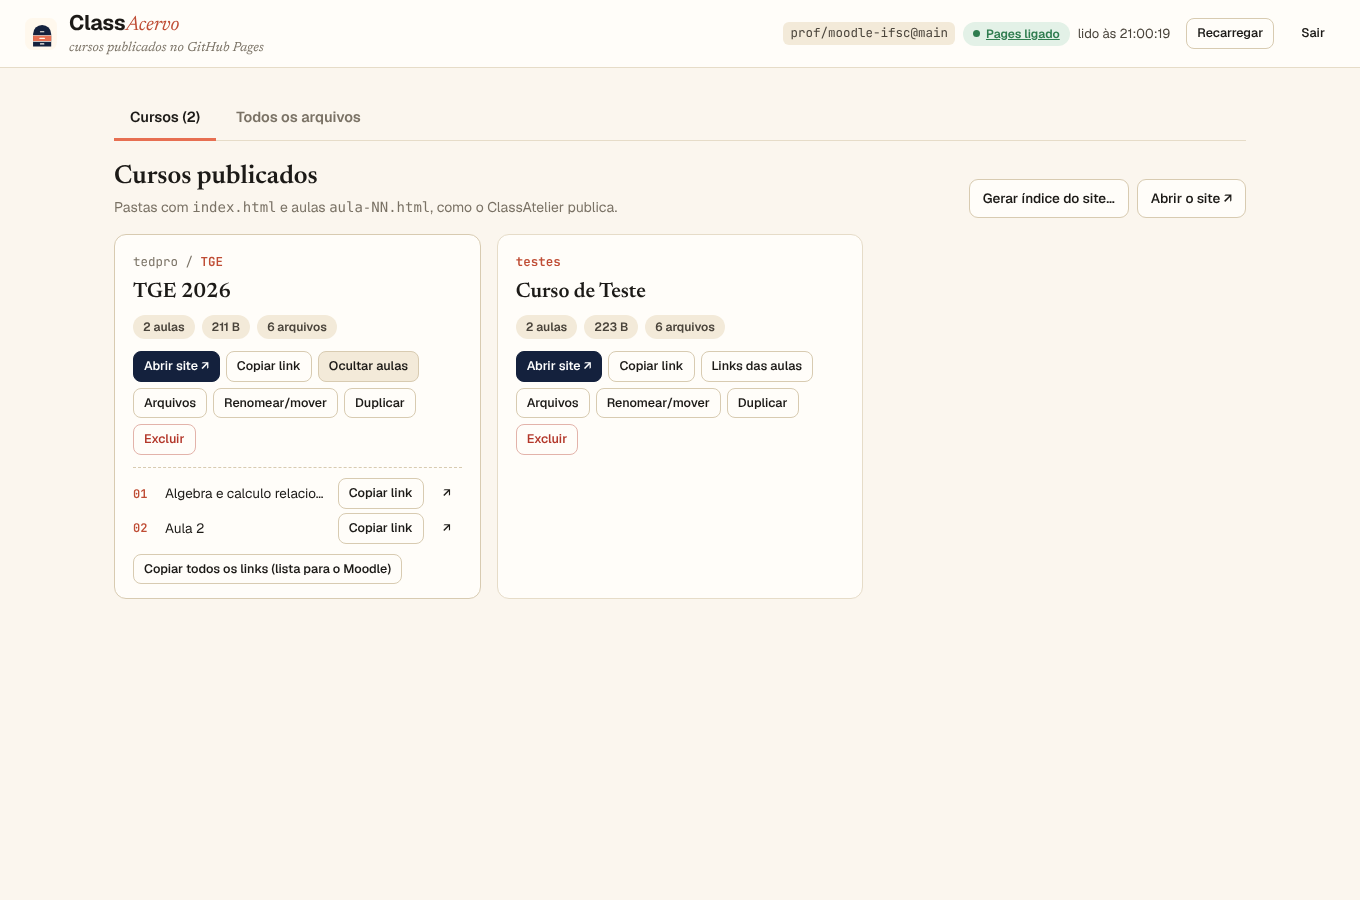
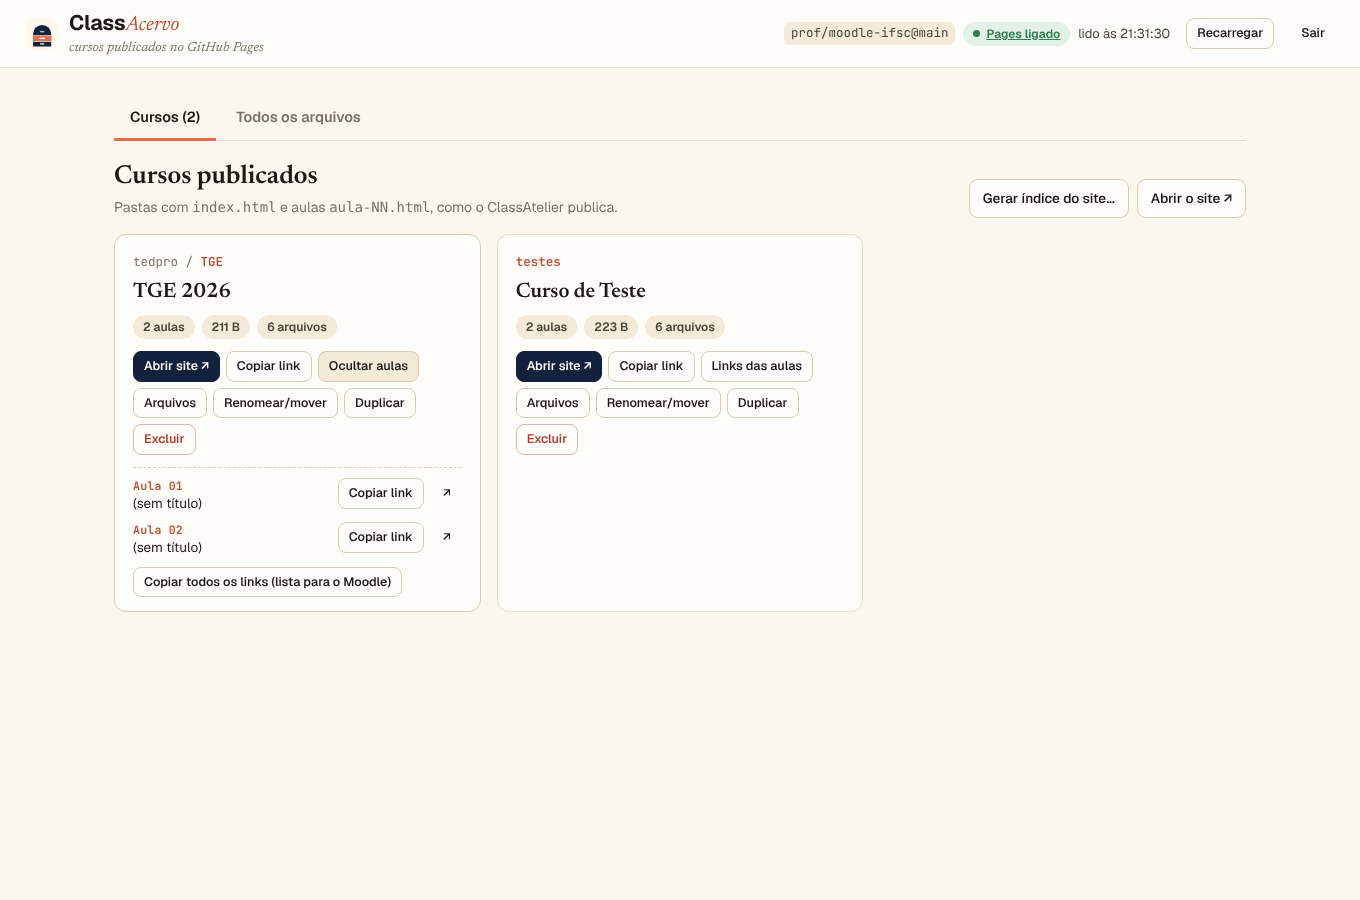
ClassAcervo: reconhece aulas com qualquer nome e mantém o índice do curso em dia
- curso = pasta com index.html e outros .html (não só aula-NN.html)
- aviso de links quebrados no índice + botão 'Consertar links do índice'
- renomear um arquivo de aula atualiza o link no index.html (opção marcada por padrão)

Claude-Session: https://claude.ai/code/session_019hsNeLWW9aShWMiNsGKSuX

Changed region(s): [[0.0926, 0.5289, 0.3088, 0.6844], [0.7412, 0.0311, 0.8647, 0.0622], [0.5868, 0.0311, 0.6794, 0.0622]]

diff --git a/acervo/acervo.js b/acervo/acervo.js
@@ -81,25 +81,50 @@ async function detectCourses() {
   const found = [];
   for (const dir of S.dirs) {
     if (!S.files.has(dir + "/index.html")) continue;
-    const lessonFiles = [...S.files.keys()].filter((p) => dirname(p) === dir && /^aula-\d+\.html$/i.test(basename(p))).sort();
-    if (!lessonFiles.length) continue;
-        const lessons = lessonFiles.map((p) => { const n = Number(/(\d+)/.exec(basename(p))[1]); return { n, file: p, title: "", week: 0 }; });
+    // Aulas = os outros .html da pasta (o nome pode ser qualquer um: aula-01.html, semana-03-….html…)
+    const htmls = [...S.files.keys()].filter((p) => dirname(p) === dir && /\.html?$/i.test(p) && basename(p).toLowerCase() !== "index.html");
+    if (!htmls.length) continue;
     let size = 0, count = 0;
     for (const [p, f] of S.files) if (p.startsWith(dir + "/")) { size += f.size; count += 1; }
-    found.push({ path: dir, title: "", lessons, size, files: count });
+    found.push({ path: dir, title: "", lessons: [], files: count, size, htmls, broken: [], unlisted: [] });
   }
   found.sort((a, b) => a.path.localeCompare(b.path, "pt-BR"));
   S.courses = found;
   await Promise.all(found.map(async (c) => {
     const info = await courseInfo(c.path);
     c.title = info.title;
+    c.indexSha = info.sha;
     const weeks = weeksFromProjects(c.path); // [{week, slug}]
-    for (const l of c.lessons) {
-      l.title = info.labels.get(l.n) || "";
+    const used = new Set(); const lessons = []; c.broken = [];
+    const nameSlug = (f) => slugify(basename(f).replace(/\.html?$/i, "").replace(/^(aula|semana)[-_ ]?0*\d+[-_ ]?/i, ""));
+    // 1) na ordem do índice: o arquivo existe? se não, procura o que tem o mesmo título no nome
+    for (const e of info.entries) {
+      let file = c.path + "/" + e.href;
+      let fixable = false;
+      if (!S.files.has(file) || used.has(file)) {
+        file = "";
+        const sl = slugify(e.label);
+        if (sl) file = c.htmls.find((f) => !used.has(f) && !info.entries.some((x) => c.path + "/" + x.href === f) && (nameSlug(f).includes(sl) || (nameSlug(f) && sl.includes(nameSlug(f))))) || "";
+        c.broken.push({ href: e.href, label: e.label, target: file ? basename(file) : "" });
+        fixable = !!file;
+      }
+      if (file) { used.add(file); lessons.push({ file, title: e.label, fromIndex: !fixable }); }
+    }
+    // 2) arquivos que o índice não cita
+    for (const f of c.htmls.slice().sort((a, b) => a.localeCompare(b, "pt-BR", { numeric: true }))) {
+      if (used.has(f)) continue;
+      used.add(f); c.unlisted.push(basename(f));
+      const pretty = basename(f).replace(/\.html?$/i, "").replace(/^(aula|semana)[-_ ]?0*\d+[-_ ]?/i, "").replace(/[-_]+/g, " ").trim();
+      lessons.push({ file: f, title: pretty ? pretty.charAt(0).toUpperCase() + pretty.slice(1) : "", unlisted: true });
+    }
+    lessons.forEach((l, k) => {
+      l.n = k + 1;
+      const fm = /semana[-_ ]?0*(\d+)/i.exec(basename(l.file));
       const sl = slugify(l.title);
       const w = sl && weeks.find((x) => x.slug && (sl.startsWith(x.slug) || x.slug.startsWith(sl)));
-      l.week = w ? w.week : 0;
-    }
+      l.week = fm ? Number(fm[1]) : (w ? w.week : 0);
+    });
+    c.lessons = lessons;
   }));
 }
 const slugify = (t) => String(t || "").normalize("NFD").replace(/[\u0300-\u036f]/g, "").toLowerCase().replace(/[^a-z0-9]+/g, "-").replace(/^-+|-+$/g, "");
@@ -119,20 +144,24 @@ const htmlText = (raw) => String(raw || "").replace(/<[^>]+>/g, "").replace(/&am
 // O index.html do curso é a fonte do que o site mostra: título do curso e o título de cada aula.
 async function courseInfo(dir) {
   const f = S.files.get(dir + "/index.html");
-  const info = { title: basename(dir), labels: new Map() };
+  const info = { title: basename(dir), entries: [], html: "", sha: f ? f.sha : "" };
   if (!f) return info;
   if (S.titles.has(f.sha)) return S.titles.get(f.sha);
   try {
     const blob = await api(`${repoPath()}/git/blobs/${f.sha}`);
-    const html = b64text(blob.content);
+    const html = b64text(blob.content); info.html = html;
     const h1 = /<h1[^>]*>([\s\S]*?)<\/h1>/i.exec(html); const tt = /<title[^>]*>([\s\S]*?)<\/title>/i.exec(html);
     const clean = htmlText((h1 && h1[1]) || (tt && tt[1]));
     if (clean) info.title = clean;
-    const re = /<a[^>]*href="(?:\.\/)?aula-(\d+)\.html"[^>]*>([\s\S]*?)<\/a>/gi; let m;
+    const re = /<a[^>]*href="([^"#?]+\.html?)"[^>]*>([\s\S]*?)<\/a>/gi; let m;
     while ((m = re.exec(html))) {
+      let href = m[1]; if (/^[a-z]+:|^\//i.test(href) || href.startsWith("../")) continue;
+      href = href.replace(/^\.\//, ""); if (href.includes("/")) continue;
+      try { href = decodeURIComponent(href); } catch (e) { /* mantém */ }
       const st = /<strong[^>]*>([\s\S]*?)<\/strong>/i.exec(m[2]);
-      const label = htmlText(st ? st[1] : m[2].replace(/<span[^>]*>[\s\S]*?<\/span>/gi, ""));
-      if (!isGenericLabel(label)) info.labels.set(Number(m[1]), label);
+      let label = htmlText(st ? st[1] : m[2].replace(/<span[^>]*>[\s\S]*?<\/span>/gi, ""));
+      if (isGenericLabel(label)) label = "";
+      if (href.toLowerCase() !== "index.html") info.entries.push({ href, label });
     }
   } catch (e) { /* mantém o nome da pasta */ }
   S.titles.set(f.sha, info);
@@ -282,7 +311,8 @@ function courseCard(c) {
   const lessons = open ? `<div class="lessons"><ol>${c.lessons.map((l) => `<li><span class="t"><span class="n">${l.week ? "Semana " + l.week : "Aula " + pad2(l.n)}</span>${esc(l.title || "(sem título)")}</span><button class="btn small" data-act="copy-link" data-path="${esc(l.file)}">Copiar link</button><a class="btn small ghost" href="${esc(siteUrl(l.file))}" target="_blank" rel="noopener" aria-label="Abrir ${esc(lessonLabel(l))}">↗</a></li>`).join("")}</ol>
     <p style="margin:10px 0 0"><button class="btn small" data-act="copy-all-links" data-path="${esc(c.path)}">Copiar todos os links (lista para o Moodle)</button></p></div>` : "";
   return `<article class="course"><div class="crumbs">${crumbs}</div><h3>${esc(c.title)}</h3>
-    <div class="meta"><span class="chip">${c.lessons.length} aula${c.lessons.length === 1 ? "" : "s"}</span><span class="chip">${sizeOf(c.size)}</span><span class="chip">${c.files} arquivos</span></div>
+    <div class="meta"><span class="chip">${c.lessons.length} aula${c.lessons.length === 1 ? "" : "s"}</span><span class="chip">${sizeOf(c.size)}</span><span class="chip">${c.files} arquivos</span>${c.broken.length ? `<span class="chip bad" title="O índice do curso aponta para arquivos que não existem mais">${c.broken.length} link${c.broken.length === 1 ? "" : "s"} quebrado${c.broken.length === 1 ? "" : "s"} no índice</span>` : ""}</div>
+    ${c.broken.length ? `<p class="note">O <code>index.html</code> do curso ainda aponta para nomes antigos de aula.${c.broken.some((b) => b.target) ? ` <button class="btn small" data-act="fix-index" data-path="${esc(c.path)}">Consertar links do índice</button>` : " Não achei os arquivos novos correspondentes; confira em «Arquivos»."}</p>` : ""}
     <div class="course-actions">
       <a class="btn small primary" href="${esc(siteUrl(c.path, true))}" target="_blank" rel="noopener">Abrir site ↗</a>
       <button class="btn small" data-act="copy-link" data-path="${esc(c.path)}" data-dir="1">Copiar link</button>
@@ -400,22 +430,58 @@ async function afterChange(message, commit) {
 function actMove(path, duplicate) {
   const isDir = isDirPath(path);
   const verb = duplicate ? "Duplicar" : "Renomear ou mover";
+  const lessonIdx = !duplicate && !isDir && /\.html?$/i.test(path) && basename(path).toLowerCase() !== "index.html" && S.files.has(dirname(path) + "/index.html") && S.courses.some((c) => c.path === dirname(path)) ? dirname(path) + "/index.html" : "";
   dialog({
     title: `${verb} «${basename(path)}»`,
     body: `<p>${duplicate ? "Cria uma cópia completa, por exemplo para o próximo semestre." : "Os arquivos mudam de caminho em um único commit, sem perder nada."} Informe o <b>caminho novo</b> dentro do repositório.</p>
       <label class="field"><span>Novo caminho</span><input type="text" id="dest" value="${esc(path)}" spellcheck="false"></label>
       ${duplicate ? "" : `<p class="note">Os links do site mudam junto. Links já colados no Moodle para <code>${esc(path)}</code> deixam de funcionar até você trocá-los.</p>`}
+      ${lessonIdx ? `<label class="check"><input type="checkbox" id="fix-idx" checked><span>Atualizar também o link desta aula no <code>index.html</code> do curso (recomendado).</span></label>` : ""}
       <div id="dest-err"></div>`,
     actions: [{ label: "Cancelar", onClick: closeDialog }, { label: verb, kind: "primary", onClick: async () => {
       if (!canWrite()) return;
       const v = validateDest($("#dest").value, path);
       if (v.error) { $("#dest-err").innerHTML = `<p class="err">${esc(v.error)}</p>`; return; }
       const entries = planMove(path, v.dest, duplicate);
+      if (lessonIdx && $("#fix-idx") && $("#fix-idx").checked && dirname(v.dest) === dirname(path)) {
+        try {
+          const html = await indexHtmlOf(lessonIdx);
+          const out = rewriteHref(html, basename(path), basename(v.dest));
+          if (out !== html) entries.push({ path: lessonIdx, mode: S.files.get(lessonIdx).mode, type: "blob", content: out });
+        } catch (e) { /* segue sem atualizar o índice; o aviso no cartão permite consertar depois */ }
+      }
       dlgBusy("Enviando " + (entries.length / (duplicate ? 1 : 2)) + " arquivo(s)…");
       try {
         const commit = await commitChanges(entries, `${duplicate ? "Duplica" : "Move"} ${path} → ${v.dest} (${APP_NAME})`);
         S.selected = v.dest; if (isDir) S.open.add(dirname(v.dest));
         await afterChange(`${duplicate ? "Cópia criada" : "Movido"} para ${v.dest}`, commit);
+      } catch (e) { dlgError(e); }
+    } }]
+  });
+}
+async function indexHtmlOf(path) {
+  const f = S.files.get(path); const blob = await api(`${repoPath()}/git/blobs/${f.sha}`); return b64text(blob.content);
+}
+// troca href="antigo.html" (com ou sem ./, com ou sem %-escapes) por href="novo.html"
+function rewriteHref(html, oldName, newName) {
+  const olds = new Set([oldName, encodeURIComponent(oldName), enc(oldName)]);
+  let out = html;
+  for (const o of olds) for (const pre of ["", "./"]) out = out.split(`href="${pre}${o}"`).join(`href="${encodeURIComponent(newName).replace(/%28/g, "(").replace(/%29/g, ")")}"`);
+  return out;
+}
+async function actFixIndex(coursePath) {
+  const c = S.courses.find((x) => x.path === coursePath); if (!c || !canWrite()) return;
+  const fixes = c.broken.filter((b) => b.target);
+  dialog({
+    title: "Consertar links do índice",
+    body: `<p>Em <code>${esc(c.path)}/index.html</code>, vou trocar:</p><ul style="margin:0 0 12px;padding-left:20px">${fixes.map((b) => `<li><code>${esc(b.href)}</code> → <code>${esc(b.target)}</code></li>`).join("")}</ul><p class="hint">Só o índice do curso muda (um commit). As aulas não são tocadas.</p>`,
+    actions: [{ label: "Cancelar", onClick: closeDialog }, { label: "Consertar", kind: "primary", onClick: async () => {
+      dlgBusy("Atualizando o índice…");
+      try {
+        const idx = c.path + "/index.html"; let html = await indexHtmlOf(idx);
+        for (const b of fixes) html = rewriteHref(html, b.href, b.target);
+        const commit = await commitChanges([{ path: idx, mode: S.files.get(idx).mode, type: "blob", content: html }], `Conserta links do índice de ${c.path} (${APP_NAME})`);
+        await afterChange("Índice consertado", commit);
       } catch (e) { dlgError(e); }
     } }]
   });
@@ -545,6 +611,7 @@ document.addEventListener("click", async (ev) => {
     renderMain(); return;
   }
   if (act === "goto-files") { S.view = "arquivos"; S.selected = path; let d = path; while (d) { S.open.add(d); d = dirname(d); } renderMain(); return; }
+  if (act === "fix-index") { actFixIndex(path); return; }
   if (act === "toggle-lessons") { if (S.openLessons.has(path)) S.openLessons.delete(path); else S.openLessons.add(path); renderMain(); return; }
   if (act === "copy-link") { copy(siteUrl(path, el.dataset.dir === "1" || isDirPath(path)), "Link copiado."); return; }
   if (act === "copy-all-links") { copy(allLinksText(path), "Links de todas as aulas copiados."); return; }

diff --git a/acervo/index.html b/acervo/index.html
@@ -17,13 +17,13 @@
 <meta property="og:image:type" content="image/png">
 <meta name="twitter:card" content="summary_large_image">
 <link rel="stylesheet" href="../fonts/fonts.css">
-<link rel="stylesheet" href="./acervo.css?v=5">
+<link rel="stylesheet" href="./acervo.css?v=6">
 </head>
 <body>
 <header class="top" id="top"></header>
 <main id="main"></main>
 <div id="dialog-root"></div>
 <div id="toast" class="toast" role="status" aria-live="polite" hidden></div>
-<script type="module" src="./acervo.js?v=5"></script>
+<script type="module" src="./acervo.js?v=6"></script>
 </body>
 </html>
